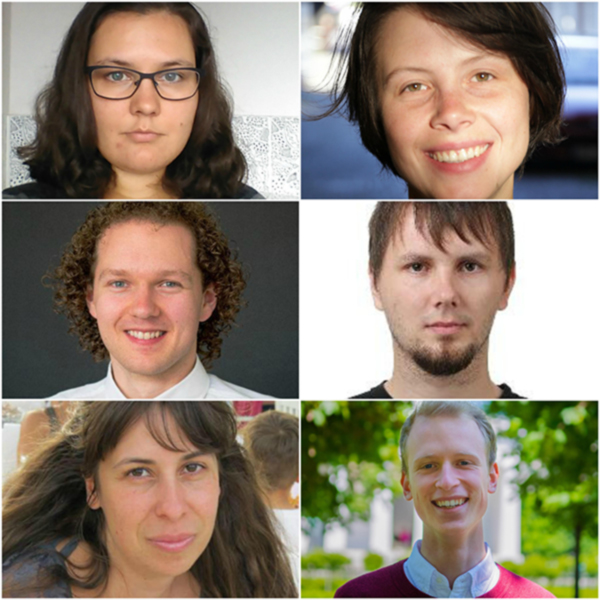
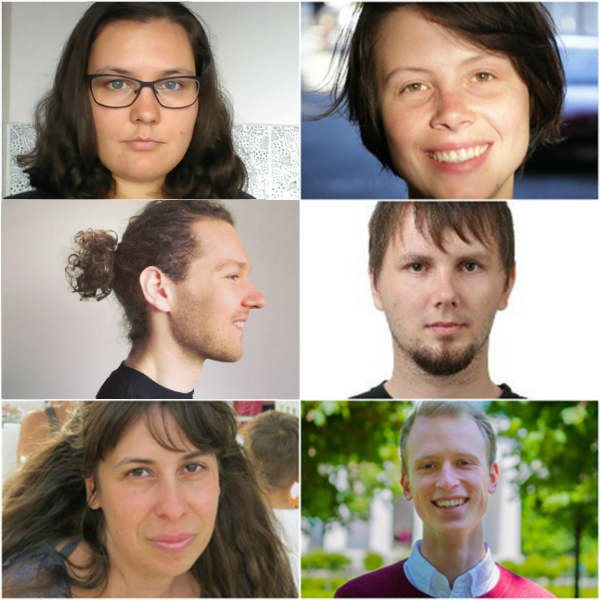
Adding pics, polishing out details

Changed region(s): [[0.0, 0.0, 0.51, 0.69]]

diff --git a/blog/_posts/2016-08-15-hello-from-team-xyz.md b/blog/_posts/2016-08-15-hello-from-team-xyz.md
@@ -4,7 +4,7 @@ layout: post
 created_at: Mon August 15 2016
 permalink: blog/2016-08-10-hello-from-team-xyz
 current: blog
-author: Veronika Svecova and Daria Samokhvalova
+author: Veronika and Daria
 twitter: xyzcoode
 categories:
 - student-posts
@@ -20,7 +20,7 @@ Why XYZ? Well, we put that name into our application as a placeholder, and we th
 
 We are working on [KeystoneJS](http://keystonejs.com/), an exciting open source framework for developing websites, applications and APIs. Our project is mainly built using JavaScript based technologies - Node.js, Express.js, ReactJS and MongoDB.
 
-We, students, get immense support from our coaches Jano and Josef, for which we are eternally grateful. Our mentor Max, one of KeystoneJS core contributors, patiently answers all our questions and provides valuable feedback. We are supported and supervised by last year's RGSoC participant Sofia from sunny Sofia, Bulgaria.
+We, students, get immense support from our coaches Jano and Josef, for which we are eternally and endlessly grateful. Our mentor Max, one of KeystoneJS core contributors, patiently answers all our questions and provides valuable feedback. We are supported and supervised by last year's RGSoC participant Sofia from sunny Sofia, Bulgaria.
 
 ### This is our team:
 
@@ -30,27 +30,39 @@ Daria’s journey to software development started with working as content-manage
 
 Veronika comes from Moravia, specifically the Zlín region, which is a part of Czech Republic right next to the border with Slovakia.
 Her background is in traditional linguistics - she studied English and Italian Linguistics and Literature.
-She became interested in programming and related technical disciplines at the time when she was working in customer service and wanted something new and exciting to learn. JavaScript and Python seemed very well suited for a novice learner, so at first, she was browsing tutorials and online courses, and later she started attending various workshops and intensive courses.
+She became interested in programming and related technical disciplines at the time when she was working in customer service and wanted something new and exciting to learn. JavaScript and Python seemed very well suited for a novice learner, so at first, she was browsing tutorials and online courses - it became her hobby to solve simple programming puzzles, just like other people like to do sudoku or crossword puzzles in their free time.
+She was hooked, and later on she decided to take this hobby to the next level and started attending various workshops and intensive courses, which eventually lead to the decision to take a plunge, enroll into Summer of Code and get involved full-time in a real project.
+
+Here we are at work, apparently very busy and focusing on something important:
+
+![Daria and Veronika](/img/blog/2016/xyz-locus.jpg)
 
 ### What we have achieved so far
-* Became better in Javascript (crossing fingers)
-* Merged password complexity API, min/max options for text field, smooth scrolling and docs to Keystonejs repo
+
+* Became better at JavaScript (crossing fingers)
+* Built password complexity API and min/max options for text field
+* Implemented smooth scrolling in the admin UI
+* Reviewed existing docs and moved them to KeystoneJS repo
 * Learnt git magic: fetch, merge, stash, rebase, pull requests, solving merge conflicts
 * Used npm for package management and running local environment for Node.js
 * Wrote our own unit tests
-* Learn basics of deployment to Heroku
-* Built blog with Keystonejs
+* Learnt basics of deployment to Heroku
+* Built blog with KeystoneJS
 * Tried out ReactJS
-* Tried out working in coworking
 * Learnt many other small things (jade, markdown, basics of jsx...)
+* Tried out working in a coworking space
+
+This is the view from our office:
+
+![View from the](/img/blog/2016/prague-coworking.jpg)
 
 ### Tips we would like to share
 
 * **Don't get discouraged by difficulties!** Programming is not easy, it is actually very challenging, and that's what is so exciting about learning it. In fact, pick difficult tasks! It will push you further.
 * **Community is important!** Get adopted by your programming family and you will get endless support in hard moments.
-* **Take regular breaks**; refresh and gather new energy in your free time! It is important to relax.
-* **Take care of yourself!** It is easy to get lost in time while you're fully immersed into coding. Don't forget to eat and drink :)
-* **Strengthen your theoretical knowledge as well!** Don't lose your curiosity to find out how things work behind the outer layer.
+* **Take regular breaks!** Refresh and gather new energy in your free time. It is important to relax.
+* **Take care of yourself!** It is easy to get lost in time while you're fully immersed into coding. Keep yourself hydrated and don't forget to eat your lunch :)
+* **Strengthen your theoretical knowledge as well!** Nurture your curiosity to find out how things work behind the outer layer.
 
 ### Our next steps within the project
 
@@ -58,4 +70,4 @@ She became interested in programming and related technical disciplines at the ti
 * Build a visualization of available lists in Keystone's Admin UI
 * Submit a "How to build a blog with Keystone" article for Keystone documentation
 * Learn more about React
-* Become fluent in Javascript (one can only hope)
+* Become fluent in JavaScript (one can only hope)
